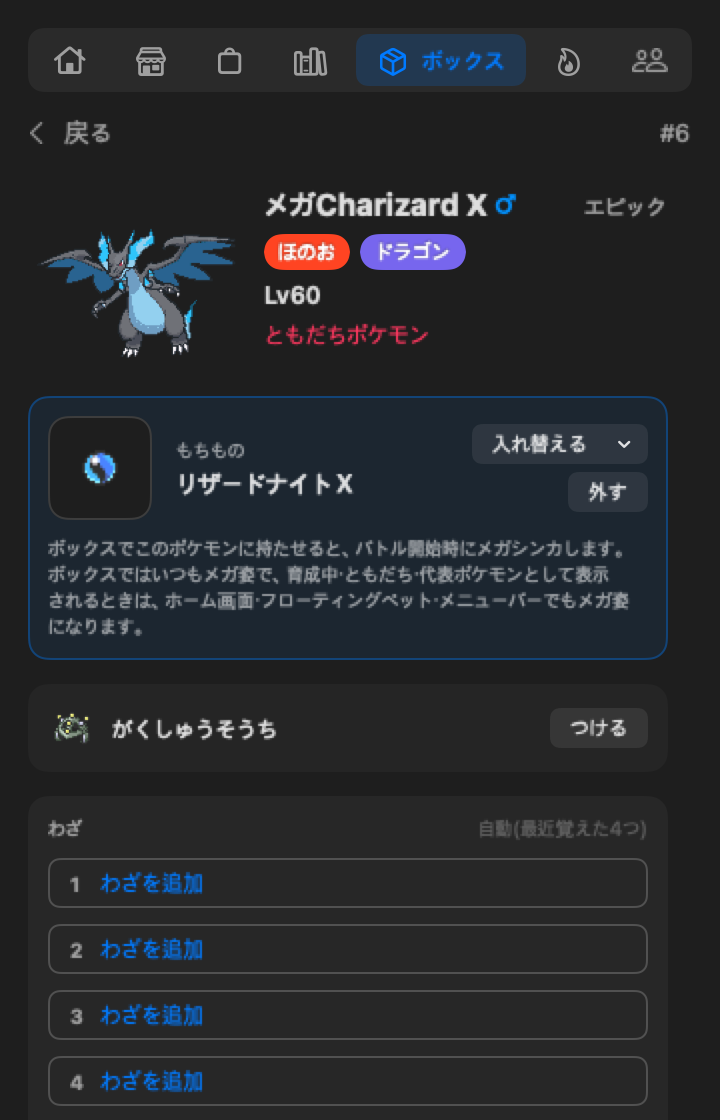
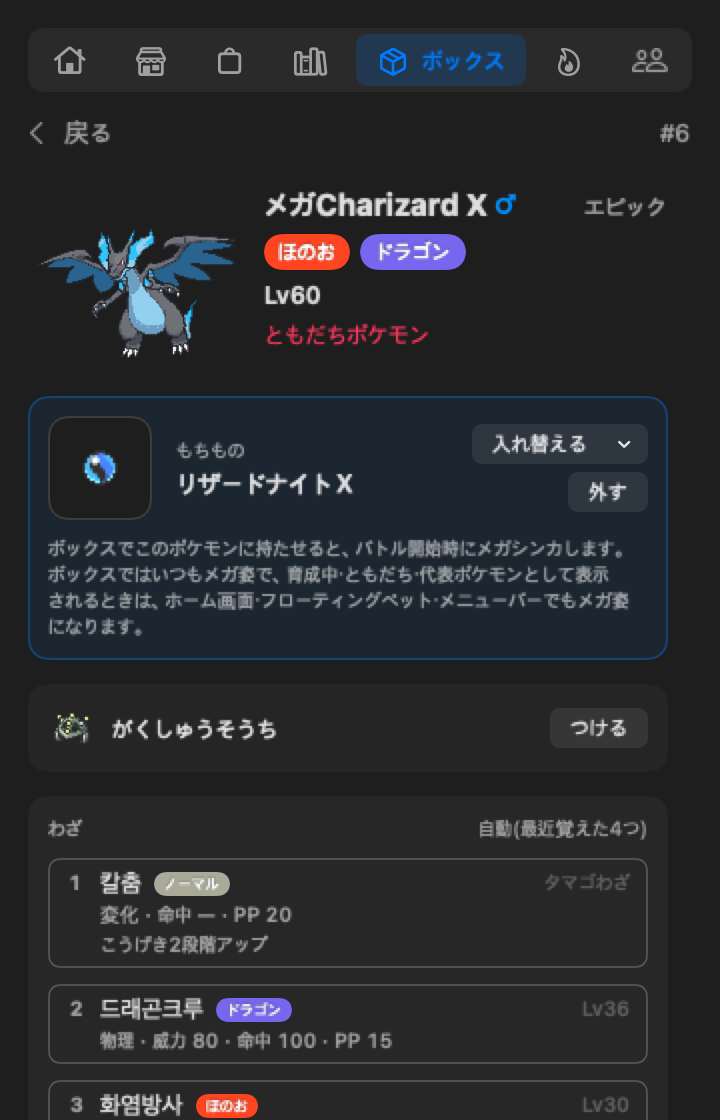
docs(readme): show status moves on the Pokémon profile and the move picker

Changed region(s): [[0.0611, 0.7812, 0.9167, 1.0], [0.6722, 0.7188, 0.8861, 0.75], [0.7639, 0.7812, 0.8861, 0.8125]]

diff --git a/README.ko.md b/README.ko.md
@@ -159,10 +159,12 @@ Pi는 모델 여러 개를 세션 로그 하나로 흘려보낼 수 있습니다
 </td>
 </tr>
 <tr>
-<td width="45%" align="center"><img src="assets/screenshot-pokemon-profile-ko.png" width="300" alt="지닌 도구·학습장치 칸·기술이 보이는 박스 포켓몬 프로필"></td>
+<td width="45%" align="center"><img src="assets/screenshot-pokemon-profile-ko.png" width="300" alt="지닌 도구·학습장치 칸·기술이 보이는 박스 포켓몬 프로필"><br><br><img src="assets/screenshot-status-moves-ko.png" width="300" alt="레벨업 기술과 변화 기술 묶음이 보이는 기술 선택"></td>
 <td width="55%" valign="middle">
 <h3>포켓몬마다 고유한 프로필</h3>
 <b>박스</b>에서 포켓몬을 열면 레벨·성별·성격·특성·개체값·계산된 능력치·지닌 도구·기술을 확인할 수 있습니다. 종 설명과 특성·기술은 선택 언어로 표시하고, PokéAPI에 번역이 없으면 영어를 사용합니다.
+<br><br>
+<b>변화 기술</b>도 기술 선택의 별도 묶음으로 고를 수 있습니다. 칼춤·전기자석파·하품·트릭룸·스텔스록을 레벨업·기술머신·알 기술로 배우면 나옵니다. 배틀에서는 트레이너와 같은 규칙으로 씁니다.
 </td>
 </tr>
 <tr>

diff --git a/README.md b/README.md
@@ -158,10 +158,12 @@ Pi can route more than one model through a single session log. Usage is now attr
 </td>
 </tr>
 <tr>
-<td width="45%" align="center"><img src="assets/screenshot-pokemon-profile.png" width="300" alt="A Box Pokémon's profile with its held item, Exp. Share slot and moves"></td>
+<td width="45%" align="center"><img src="assets/screenshot-pokemon-profile.png" width="300" alt="A Box Pokémon's profile with its held item, Exp. Share slot and moves"><br><br><img src="assets/screenshot-status-moves.png" width="300" alt="The move picker with level-up moves and a Status moves group"></td>
 <td width="55%" valign="middle">
 <h3>Every Pokémon has its own profile</h3>
 Open a Pokémon in the <b>Box</b> to inspect it: level, gender, nature, ability, IVs, calculated stats, held item, and moves. Species descriptions, abilities, and moves use your selected language, with English as the fallback when PokéAPI has no translation.
+<br><br>
+<b>Status moves</b> join the move picker in their own group: Swords Dance, Thunder Wave, Yawn, Trick Room and Stealth Rock, when the Pokémon learns them by level-up, by TM or as an egg move. In battles your Pokémon uses them by the same rules as the trainers.
 </td>
 </tr>
 <tr>
